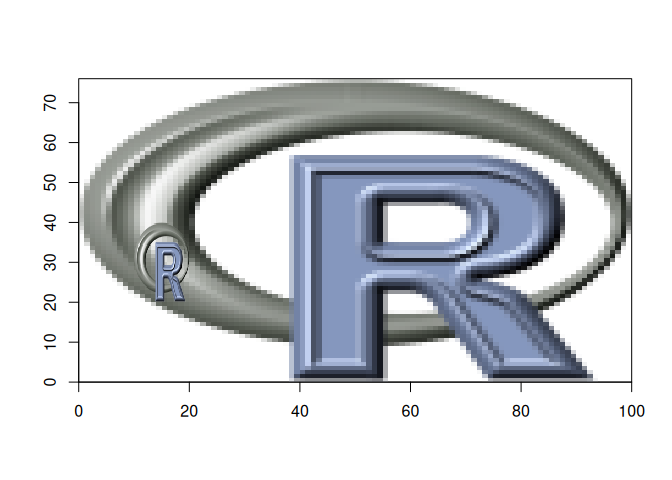
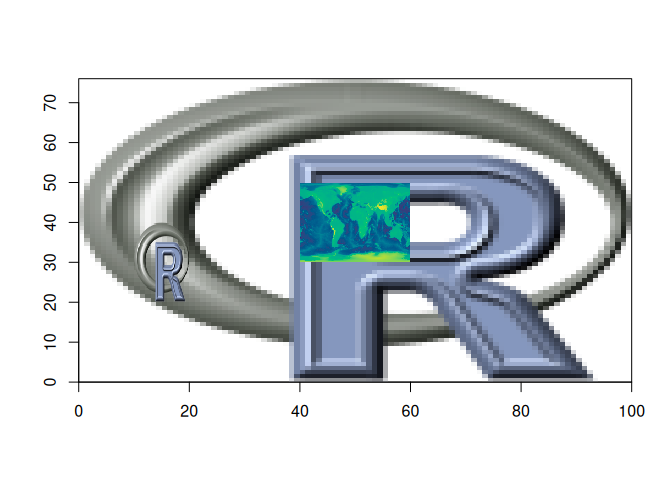
good readme

Changed region(s): [[0.4375, 0.375, 0.625, 0.5625]]

diff --git a/README.md b/README.md
@@ -8,28 +8,54 @@
 [![R-CMD-check](https://github.com/hypertidy/ximage/actions/workflows/R-CMD-check.yaml/badge.svg)](https://github.com/hypertidy/ximage/actions/workflows/R-CMD-check.yaml)
 <!-- badges: end -->
 
-The goal of ximage is to make something like ‘image()’ and
-‘rasterImage()’ but without the missing functionality and useability.
+The goal of ximage is to be like ‘image()’ and ‘rasterImage()’ but with
+the missing functionality and usability problems fixed. Draw an image
+from whatever you have, where you want it, with no dependencies beyond
+base R.
 
 ximage supports making images from
 
 - numeric, character, byte matrix
-- numeric array
+- numeric array (including RGB/A, and grey/alpha)
 - nativeRaster
 - data returned from `vapour::gdal_raster_()` or `gdalraster::read_ds()`
   functions which include numeric, character, byte vectors or
   nativeRaster types
 
-The orientation is in “raster-order”, i.e. when you’re looking at the
-picture it’s topleft to topright, then scan lines down each row to the
-bottom (like western reading and `par(mfrow)` order).
+Missing values display as a colour of your choosing (`na.col`,
+transparent by default), a constant `alpha` can be applied over any
+input for overlay work, and `zlim` anchors absolute colours across
+multiple plots.
+
+Alongside `ximage()` there are matching adornment functions that share
+its layout conventions: `xcontour()` (contours at cell centres),
+`xtext()` (cell values as labels), and `xrect()` (rectangles from
+extents).
+
+The orientation is in “raster order”, i.e. when you’re looking at the
+picture it’s top left to top right, then scan lines down each row to the
+bottom (like western reading and `par(mfrow)` order). This orientation
+is explored in
+[orientation](https://hypertidy.github.io/ximage/articles/orientation.html)
+vignette.
 
 This matches the way that spatial data readers read imagery, and is
 equivalent to populating an R matrix with
-`matrix(<>, nrow, ncol, byrow  = TRUE)` (note backwards order of
+`matrix(<>, nrow, ncol, byrow = TRUE)` (note backwards order of
 nrow,ncol). Please note that getting the data out of the matrix is not
 in this order, but it is with `as.vector(t(m))`. Higher dimensional
-arrays need more care, there’s no `byrow` for `array()`.
+arrays need more care, there’s no `byrow` for `array()`. The full story
+is in the package vignette:
+`vignette("orientation", package = "ximage")`.
+
+## Installation
+
+Install the development version from GitHub:
+
+``` r
+# install.packages("remotes")
+remotes::install_github("hypertidy/ximage")
+```
 
 ## Example
 
@@ -46,24 +72,38 @@ ximage(topo)  ## plot in the index space of the matrix
 ``` r
 
 ## or, plot in the geographic space (we happen to know this for this matrix)
-ximage(topo, extent = c(-180, 180, -90, 90), axes = F)
+ximage(topo, extent = c(-180, 180, -90, 90), axes = FALSE)
 ximage(logo_a, extent = c(170, 180, -40, -30), add = TRUE)
 
-axis(1); axis(2);box()
+axis(1); axis(2); box()
 ```
 
 <img src="man/figures/README-example-2.png" alt="" width="100%" />
 
 ``` r
 
-ximage(logo_a)  ## plot a RGB array
-## plot  a native raster over the other in a different window
+ximage(logo_a)  ## plot a RGB array, a new plot in its own index space
+## overlay a native raster, and a matrix with its own palette
 ximage(logo_n, extent = c(10, 20, 20, 40), add = TRUE)
-
-ximage(topo, extent = c(40, 60, 80, 100), add = TRUE, col = hcl.colors(256))
+ximage(topo, extent = c(40, 60, 30, 50), add = TRUE, col = hcl.colors(256))
 ```
 
 <img src="man/figures/README-example-3.png" alt="" width="100%" />
+
+Missing values and constant transparency are first-class: here the ocean
+is set to missing and displays as `na.col`, and an RGB overlay is
+applied with constant `alpha`.
+
+``` r
+land <- topo
+land[land < 0] <- NA
+ximage(topo, extent = c(-180, 180, -90, 90), col = hcl.colors(64, "Blues 3"))
+ximage(land, extent = c(-180, 180, -90, 90), add = TRUE,
+       col = hcl.colors(64, "Terrain 2"))
+ximage(logo_a, extent = c(-60, 60, -80, -35), add = TRUE, alpha = 0.5)
+```
+
+<img src="man/figures/README-colours-1.png" alt="" width="100%" />
 
 We can get imagery from the internet, and plot it very quickly.
 
@@ -72,7 +112,7 @@ library(vapour)
 virtual_earth <-  "<GDAL_WMS><Service name=\"VirtualEarth\"><ServerUrl>http://a${server_num}.ortho.tiles.virtualearth.net/tiles/a${quadkey}.jpeg?g=90</ServerUrl></Service><MaxConnections>4</MaxConnections><Cache/></GDAL_WMS>"
 par(mar = rep(0, 4))
 px <- dev.size("px")
-px[which.min(px)] <- 0
+px[which.min(px)] <- 0  ## zero means GDAL fills this dimension, preserving aspect
 
 ## change lon_0 and lat_0 to anywhere you like
 im <- gdal_raster_nara(virtual_earth, target_ext = c(-1, 1, -1, 1) * 3e5, target_dim = px, target_crs = "+proj=laea +lon_0=147 +lat_0=-42")
@@ -83,7 +123,7 @@ system.time(ximage(im, asp = 1))
 <img src="man/figures/README-imagery-1.png" alt="" width="100%" />
 
     #>    user  system elapsed 
-    #>   0.003   0.000   0.003
+    #>   0.003   0.000   0.004
 
 
     ## crank up the size it's still fast
@@ -95,7 +135,7 @@ system.time(ximage(im, asp = 1))
 <img src="man/figures/README-imagery-2.png" alt="" width="100%" />
 
     #>    user  system elapsed 
-    #>   0.040   0.024   0.063
+    #>   0.038   0.023   0.061
 
 ## Code of Conduct
 
